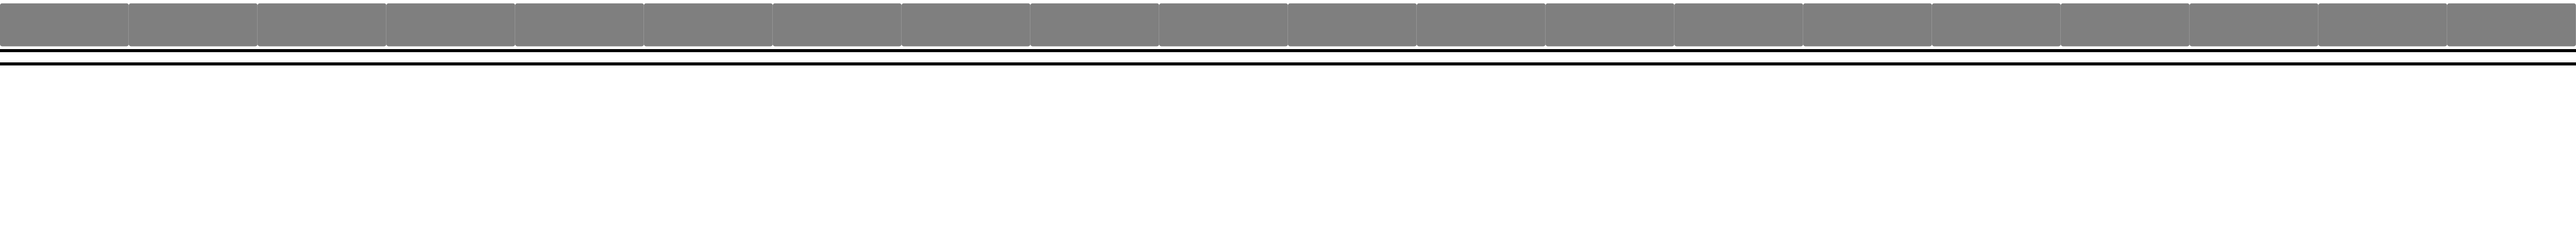
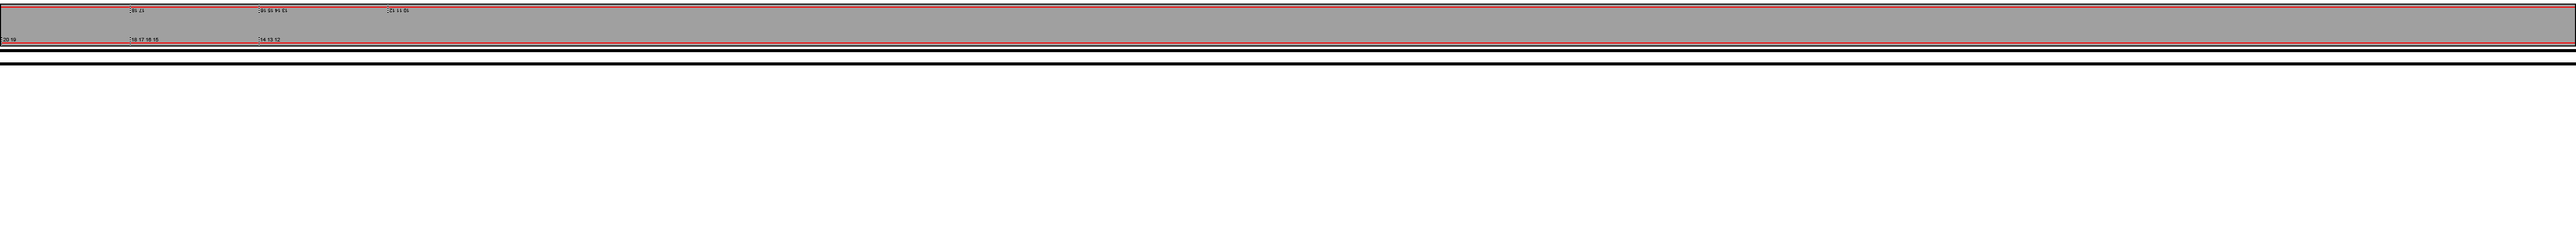
optimized image loading for tracks

Changed region(s): [[0.0, 0.0, 1.0, 0.2068]]

diff --git a/base_route.py b/base_route.py
@@ -14,10 +14,13 @@ class BaseRoute(GameObject):
         # last_opened_by and last_entered_by are used by signals to determine if next route is opened by the same train
         self.last_opened_by = None
         self.last_entered_by = None
-        self.image = pygame.image.load(self.route_config.image_path).convert_alpha()
+        if self.route_config.image_path is not None:
+            self.image = pygame.image.load(self.route_config.image_path).convert_alpha()
+        else:
+            self.image = None
 
     def draw(self, surface, base_offset):
-        if not self.route_config.locked:
+        if not self.route_config.locked and self.image is not None:
             width = self.image.get_width()
             height = self.image.get_height()
             # entry routes are left-aligned

diff --git a/base_route_cfg/track1_left_exit_platform_base_route_config.py b/base_route_cfg/track1_left_exit_platform_base_route_config.py
@@ -1,4 +1,4 @@
-image_path = 'img/track1_route.png'
+image_path = None
 locked = False
 busy = False
 opened = False

diff --git a/base_route_cfg/track1_right_entry_platform_base_route_config.py b/base_route_cfg/track1_right_entry_platform_base_route_config.py
@@ -1,4 +1,4 @@
-image_path = 'img/track1_route.png'
+image_path = None
 locked = False
 busy = False
 opened = False

diff --git a/base_route_cfg/track1_right_exit_platform_base_route_config.py b/base_route_cfg/track1_right_exit_platform_base_route_config.py
@@ -1,4 +1,4 @@
-image_path = 'img/track1_route.png'
+image_path = None
 locked = False
 busy = False
 opened = False

diff --git a/base_route_cfg/track2_left_exit_platform_base_route_config.py b/base_route_cfg/track2_left_exit_platform_base_route_config.py
@@ -1,4 +1,4 @@
-image_path = 'img/track2_route.png'
+image_path = None
 locked = False
 busy = False
 opened = False

diff --git a/base_route_cfg/track2_right_entry_platform_base_route_config.py b/base_route_cfg/track2_right_entry_platform_base_route_config.py
@@ -1,4 +1,4 @@
-image_path = 'img/track2_route.png'
+image_path = None
 locked = False
 busy = False
 opened = False

diff --git a/base_route_cfg/track2_right_exit_platform_base_route_config.py b/base_route_cfg/track2_right_exit_platform_base_route_config.py
@@ -1,4 +1,4 @@
-image_path = 'img/track2_route.png'
+image_path = None
 locked = False
 busy = False
 opened = False
